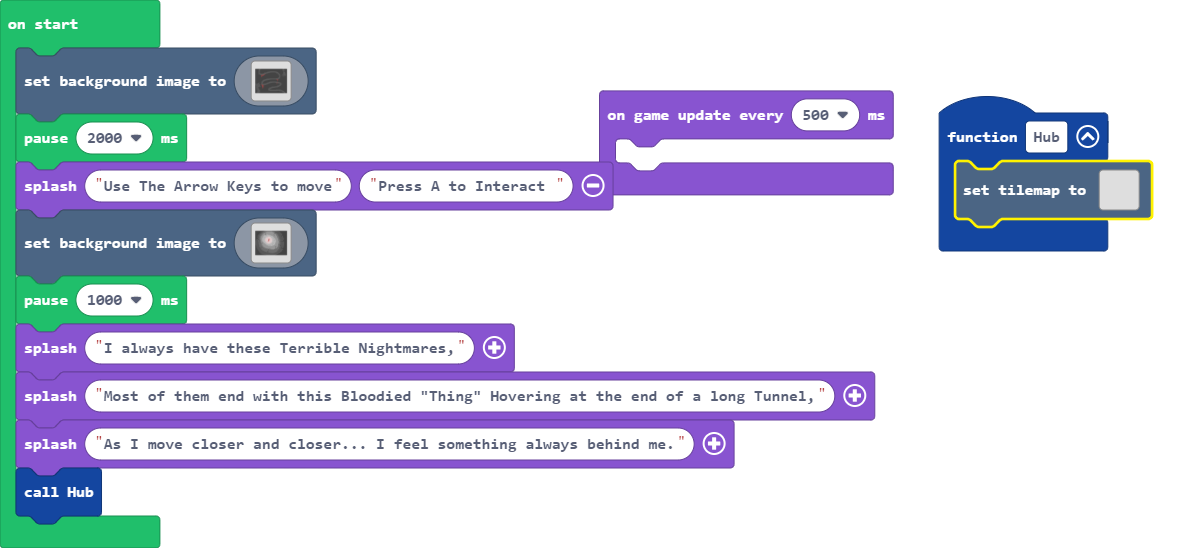
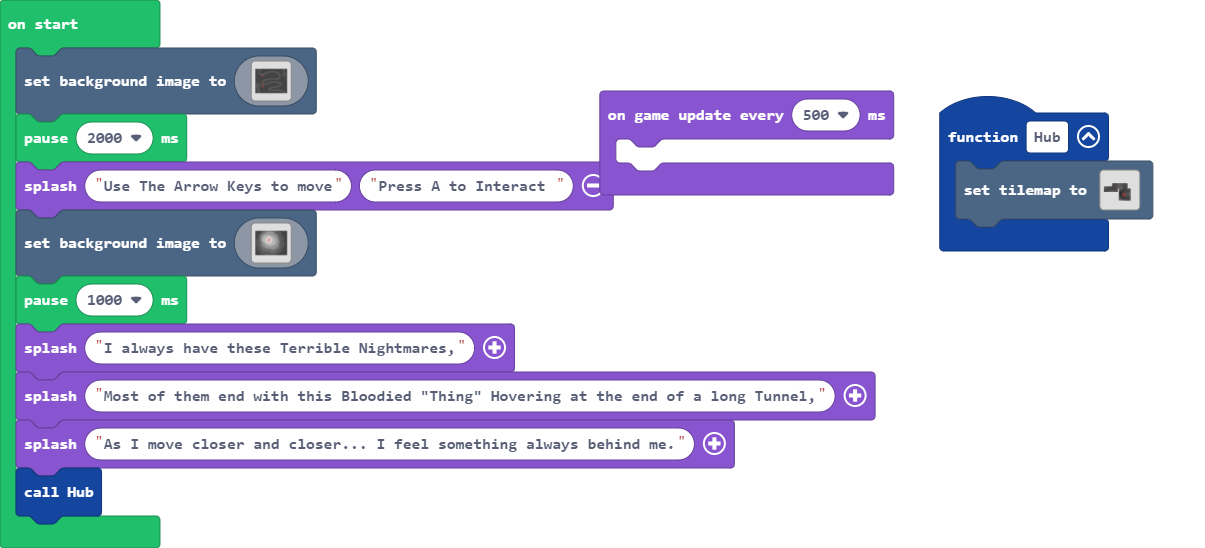
Finished the Tiles for the "Dark Place"

diff --git a/tilemap.g.ts b/tilemap.g.ts
@@ -36,28 +36,61 @@ namespace myTiles {
     export const tile16 = image.ofBuffer(hex``);
     //% fixedInstance jres blockIdentity=images._tile
     export const tile17 = image.ofBuffer(hex``);
+    //% fixedInstance jres blockIdentity=images._tile
+    export const tile18 = image.ofBuffer(hex``);
+    //% fixedInstance jres blockIdentity=images._tile
+    export const tile19 = image.ofBuffer(hex``);
+    //% fixedInstance jres blockIdentity=images._tile
+    export const tile23 = image.ofBuffer(hex``);
+    //% fixedInstance jres blockIdentity=images._tile
+    export const tile24 = image.ofBuffer(hex``);
+    //% fixedInstance jres blockIdentity=images._tile
+    export const tile20 = image.ofBuffer(hex``);
+    //% fixedInstance jres blockIdentity=images._tile
+    export const tile27 = image.ofBuffer(hex``);
+    //% fixedInstance jres blockIdentity=images._tile
+    export const tile26 = image.ofBuffer(hex``);
+    //% fixedInstance jres blockIdentity=images._tile
+    export const tile22 = image.ofBuffer(hex``);
+    //% fixedInstance jres blockIdentity=images._tile
+    export const tile28 = image.ofBuffer(hex``);
+    //% fixedInstance jres blockIdentity=images._tile
+    export const tile29 = image.ofBuffer(hex``);
+    //% fixedInstance jres blockIdentity=images._tile
+    export const tile21 = image.ofBuffer(hex``);
+    //% fixedInstance jres blockIdentity=images._tile
+    export const tile25 = image.ofBuffer(hex``);
+    //% fixedInstance jres blockIdentity=images._tile
+    export const tile30 = image.ofBuffer(hex``);
+    //% fixedInstance jres blockIdentity=images._tile
+    export const tile31 = image.ofBuffer(hex``);
 
     helpers._registerFactory("tilemap", function(name: string) {
         switch(helpers.stringTrim(name)) {
             case "level1":
-            case "level1":return tiles.createTilemap(hex`1000100000000000000000000000000000000000000000000000000000000000000000000000000000000000000000000000000000000000000000000000000000000000000000000000000000000000000000000000000000000000000000000000000000000000000000000000000000000000000000000000000000000000000000000000000000000000000000000000000000000000000000000000000000000000000000000000000000000000000000000000000000000000000000000000000000000000000000000000000000000000000000000000000000000000000000000000000000000000000000000000000000000000000000000000000000000000`, img`
-. . . . . . . . . . . . . . . . 
-. . . . . . . . . . . . . . . . 
-. . . . . . . . . . . . . . . . 
-. . . . . . . . . . . . . . . . 
-. . . . . . . . . . . . . . . . 
-. . . . . . . . . . . . . . . . 
-. . . . . . . . . . . . . . . . 
-. . . . . . . . . . . . . . . . 
-. . . . . . . . . . . . . . . . 
-. . . . . . . . . . . . . . . . 
-. . . . . . . . . . . . . . . . 
-. . . . . . . . . . . . . . . . 
-. . . . . . . . . . . . . . . . 
-. . . . . . . . . . . . . . . . 
-. . . . . . . . . . . . . . . . 
-. . . . . . . . . . . . . . . . 
-`, [myTiles.transparency16,myTiles.tile1,myTiles.tile2,myTiles.tile3,myTiles.tile4,myTiles.tile5,myTiles.tile6,myTiles.tile7,myTiles.tile8,myTiles.tile9,myTiles.tile10,myTiles.tile11,myTiles.tile12,myTiles.tile13,myTiles.tile14,myTiles.tile15,myTiles.tile16,myTiles.tile17], TileScale.Sixteen);
[1 lines of base64/hex data omitted]
+..............................
+..............................
+..............................
+..............................
+..............................
+..............................
+..............................
+..............................
+..............................
+..............................
+..............................
+..............................
+..............................
+..............................
+..............................
+..............................
+..............................
+..............................
+..............................
+..............................
+..............................
+`, [myTiles.transparency16,myTiles.tile1,myTiles.tile6,myTiles.tile17,myTiles.tile2,myTiles.tile3,myTiles.tile4,myTiles.tile5,myTiles.tile7,myTiles.tile8,myTiles.tile9,myTiles.tile10,myTiles.tile11,myTiles.tile12,myTiles.tile13,myTiles.tile14,myTiles.tile15,myTiles.tile16,myTiles.tile18,myTiles.tile19,myTiles.tile20,myTiles.tile21,myTiles.tile22,myTiles.tile23,myTiles.tile24,myTiles.tile25,myTiles.tile26,myTiles.tile27,myTiles.tile28,myTiles.tile29,myTiles.tile30,myTiles.tile31], TileScale.Sixteen);
         }
         return null;
     })
@@ -99,6 +132,34 @@ namespace myTiles {
             case "tile16":return tile16;
             case "myTile15":
             case "tile17":return tile17;
+            case "myTile16":
+            case "tile18":return tile18;
+            case "myTile17":
+            case "tile19":return tile19;
+            case "myTile21":
+            case "tile23":return tile23;
+            case "myTile22":
+            case "tile24":return tile24;
+            case "myTile18":
+            case "tile20":return tile20;
+            case "myTile25":
+            case "tile27":return tile27;
+            case "myTile24":
+            case "tile26":return tile26;
+            case "myTile20":
+            case "tile22":return tile22;
+            case "myTile26":
+            case "tile28":return tile28;
+            case "myTile27":
+            case "tile29":return tile29;
+            case "myTile19":
+            case "tile21":return tile21;
+            case "myTile23":
+            case "tile25":return tile25;
+            case "myTile28":
+            case "tile30":return tile30;
+            case "myTile29":
+            case "tile31":return tile31;
         }
         return null;
     })

diff --git a/images.g.ts b/images.g.ts
@@ -22,6 +22,25 @@ namespace myImages {
 . . . . . . . . . . . . . . . . 
 . . . . . . . . . . . . . . . . 
 `;
+            case "image2":
+            case "myImage0":return img`
+. . . . . . . . . . . . . . . . 
+. . . . . . 7 7 . . . . . . . . 
+. . . . . 7 7 7 7 8 . . . . . . 
+. . . . 8 8 8 8 8 . . . . . . . 
+. . . . . a 9 1 9 . . . . . . . 
+. . . . . a a 9 9 a . . . . . . 
+. . . . a 9 9 a a 8 . . . . . . 
+. . . . a a a 9 9 8 . . . . . . 
+. . . . 8 a a a a 8 . . . . . . 
+. . . . 8 8 a a a 8 . . . . . . 
+. . . . . 8 a a a 8 . . . . . . 
+. . . . . 8 a a a 8 . . . . . . 
+. . . . 8 a a a a 8 . . . . . . 
+. . . . 8 a a a a a . . . . . . 
+. . . . . a a a a a . . . . . . 
+. . . . . 5 . . 5 . . . . . . . 
+`;
         }
         return null;
     })
